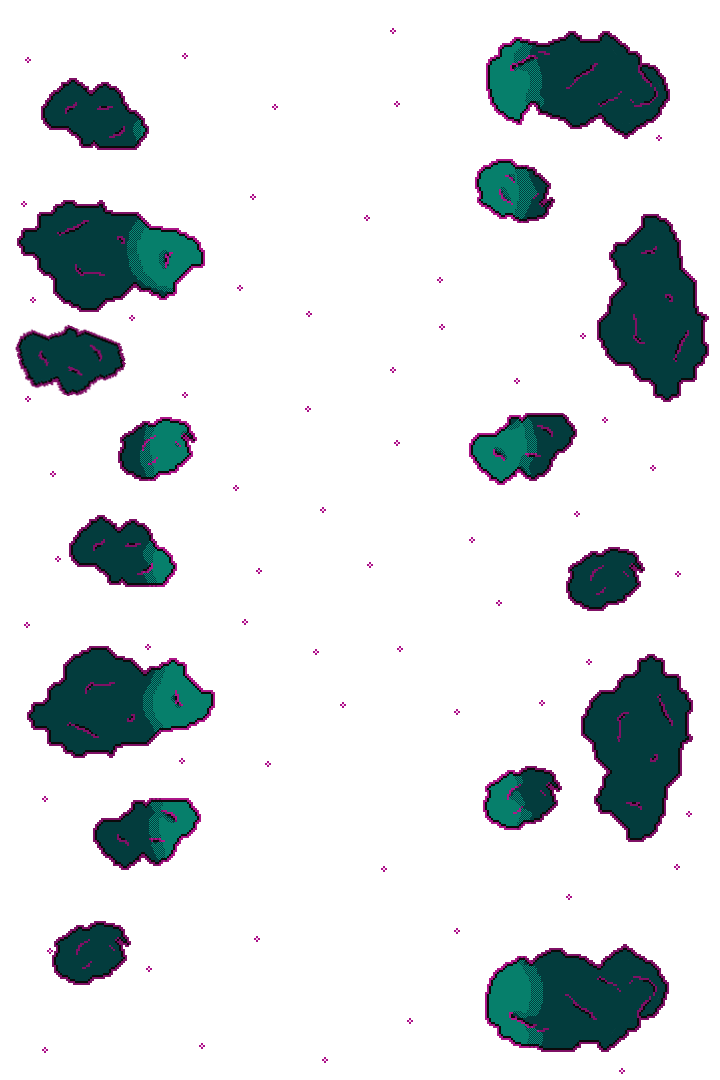
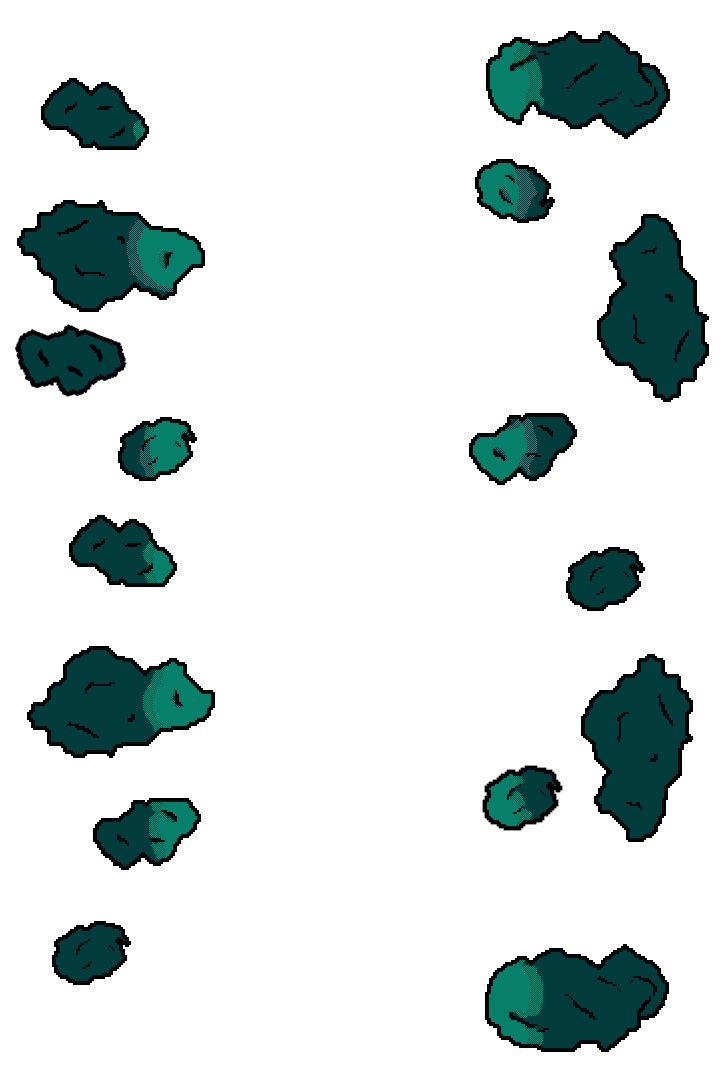
Modified graphics based on feedback
Changed the background using to make background and foreground objects more clear. Also commented out the code for drawing health bars until it can be used elsewhere.

diff --git a/states/entities.py b/states/entities.py
@@ -167,12 +167,11 @@ class Basic_Enemy(Game_Entity):
         super().__init__(frames=frames, speed=settings.basic_enemy_spd, start_pos=start_pos)
 
         # Hitbox
-
         self.hitbox = self.rect.scale_by(0.6)
         self.hitbox.centerx = self.rect.centerx
         self.hitbox.centery = self.rect.centery
       
-        self.max_health = 3
+        self.max_health = 1
         self.health = self.max_health
 
 
@@ -190,18 +189,18 @@ class Basic_Enemy(Game_Entity):
     def take_damage(self, amount=1):
         self.health -= amount
 
-    def draw_health_bar(self, screen):
-        bar_width = self.rect.width
-        bar_height = 5
+    # def draw_health_bar(self, screen):
+    #     bar_width = self.rect.width
+    #     bar_height = 5
 
-        health_ratio = self.health / self.max_health
-        fill_width = int(bar_width * health_ratio)
+    #     health_ratio = self.health / self.max_health
+    #     fill_width = int(bar_width * health_ratio)
 
-        pygame.draw.rect(screen, (255, 0, 0),
-                         (self.rect.x, self.rect.y - 8, bar_width, bar_height))
+    #     pygame.draw.rect(screen, (255, 0, 0),
+    #                      (self.rect.x, self.rect.y - 8, bar_width, bar_height))
 
-        pygame.draw.rect(screen, (0, 255, 0),
-                         (self.rect.x, self.rect.y - 8, fill_width, bar_height))
+    #     pygame.draw.rect(screen, (0, 255, 0),
+    #                      (self.rect.x, self.rect.y - 8, fill_width, bar_height))
 
     def shoot(self, bullet_group):
         enemy_bullet = Bullet(

diff --git a/states/upgrade_state.py b/states/upgrade_state.py
@@ -16,12 +16,12 @@ class UpgradeState(State):
         self.options = ["Bullet Speed +2", "Fire Rate +10%"]
 
     def handle_event(self, app, event):
-        sfx_menu = pygame.mixer.Sound("assets/sfx_ogg/menu1.ogg")
+        #sfx_menu = pygame.mixer.Sound("assets/sfx_ogg/menu1.ogg")
         if event.type == pygame.KEYDOWN:
 
             if event.key in (pygame.K_UP, pygame.K_DOWN):
                 self.selected = (self.selected + 1) % 2
-                pygame.mixer.Sound.play(sfx_menu)
+                #pygame.mixer.Sound.play(sfx_menu)
             elif event.key == settings.keybind_menu_confirm:
                 if self.selected == 0:
                     settings.BULLET_SPEED = min(25, settings.BULLET_SPEED + 2)
